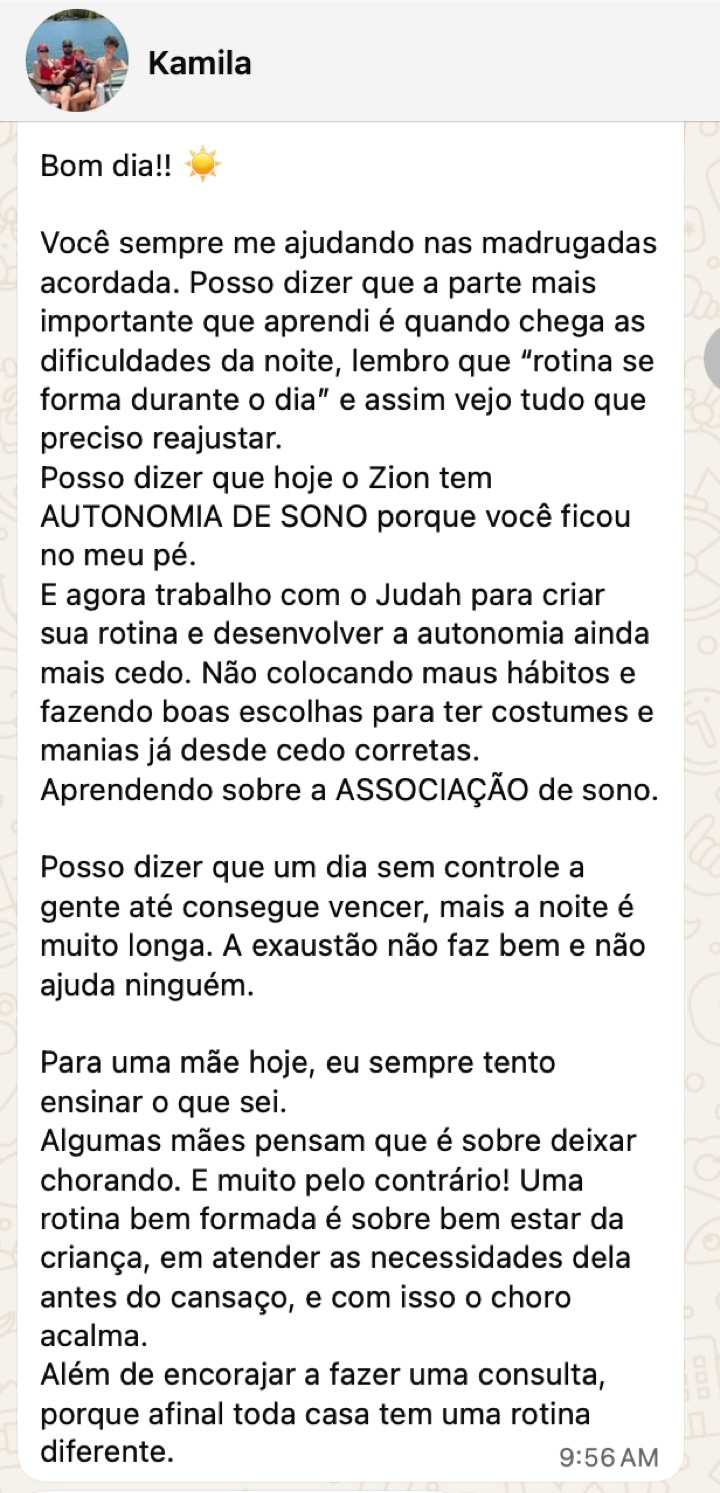
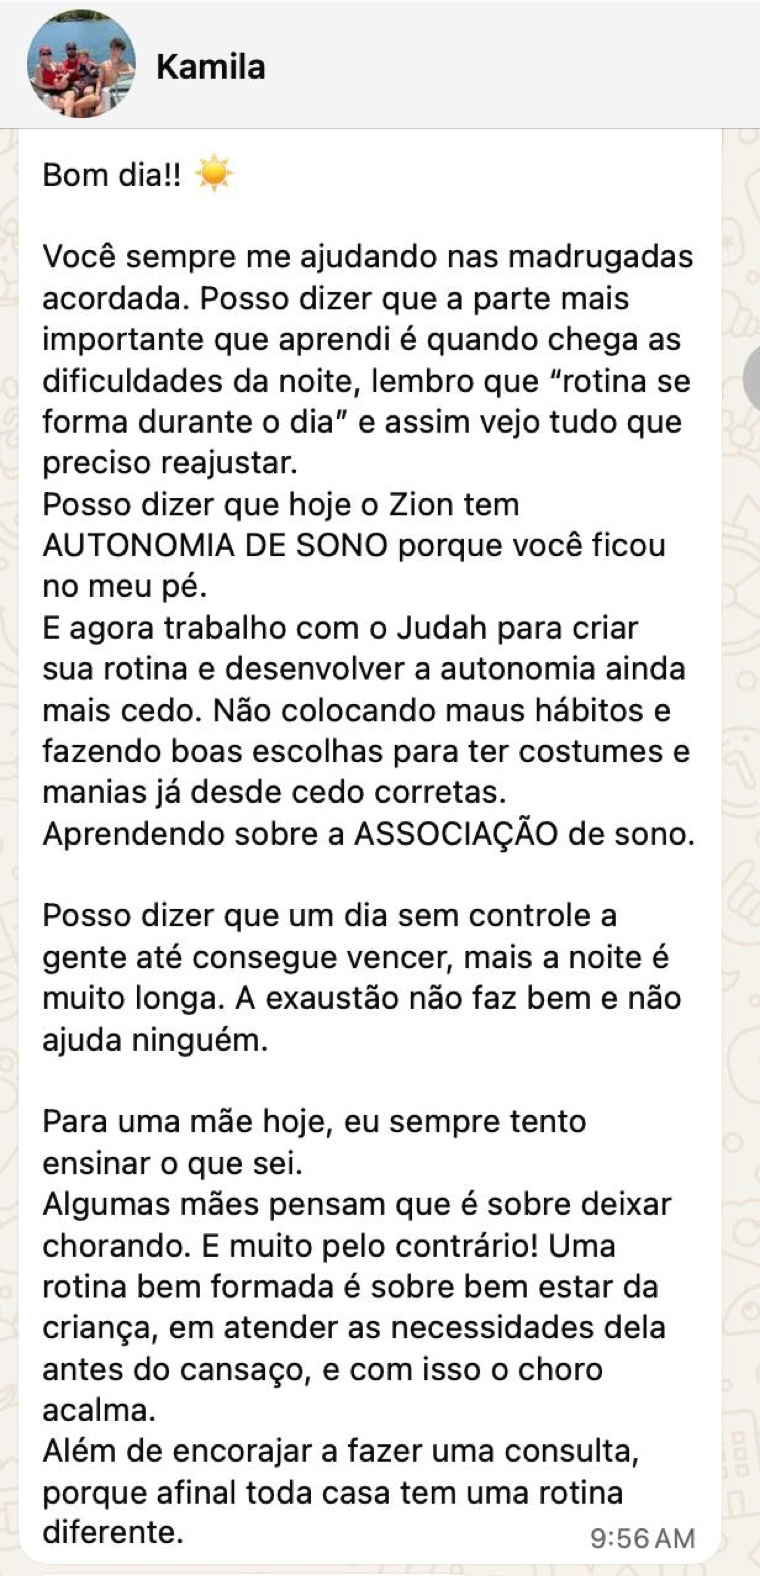
Depoimentos redesenhados: 8 prints originais do WhatsApp, mãe do Theo em destaque com a sequência mês a mês, legendas por print e etiqueta correta; corrige ordem cronológica da família (Ewerton 2017 primeiro)

diff --git a/src/components/HomeTestimonials.tsx b/src/components/HomeTestimonials.tsx
@@ -10,6 +10,68 @@ interface Props {
   showCta?: boolean;
 }
 
+type Testimonial = NonNullable<
+  NonNullable<LocaleDict["services"]["cards"][number]["detail"]["testimonials"]>
+>[number];
+
+// Print real do WhatsApp, apresentado como uma prova que se pode ampliar.
+function Proof({
+  src,
+  alt,
+  caption,
+  height = "h-[300px] md:h-[360px]",
+}: {
+  src: string;
+  alt: string;
+  caption?: string;
+  height?: string;
+}) {
+  return (
+    <figure className="shrink-0 flex flex-col gap-2.5">
+      <a
+        href={src}
+        target="_blank"
+        rel="noopener noreferrer"
+        className="group relative block overflow-hidden rounded-sm border border-cream-line bg-background shadow-[0_2px_14px_-8px_rgba(45,36,30,0.35)] transition-all duration-200 ease-out hover:shadow-[0_10px_28px_-12px_rgba(45,36,30,0.45)] hover:border-sage"
+      >
+        {/* eslint-disable-next-line @next/next/no-img-element */}
+        <img
+          src={src}
+          alt={alt}
+          loading="lazy"
+          className={`${height} w-auto max-w-none object-cover object-top`}
+        />
+        <span className="pointer-events-none absolute inset-0 flex items-center justify-center bg-text-primary/0 opacity-0 transition-all duration-200 group-hover:bg-text-primary/25 group-hover:opacity-100">
+          <span className="font-barlow-condensed text-[11px] tracking-[0.25em] uppercase text-background bg-text-primary/70 px-4 py-2 rounded-full">
+            Ampliar
+          </span>
+        </span>
+      </a>
+      {caption && (
+        <figcaption className="font-barlow text-text-muted italic" style={{ fontSize: "12.5px" }}>
+          {caption}
+        </figcaption>
+      )}
+    </figure>
+  );
+}
+
+function Attribution({ author, source }: { author: string; source?: string }) {
+  return (
+    <div className="flex items-center gap-3">
+      <span className="h-px w-6 bg-terracotta/50" aria-hidden="true" />
+      <span className="font-barlow-condensed text-xs tracking-[0.22em] uppercase text-text-primary">
+        {author}
+      </span>
+      {source && (
+        <span className="font-barlow-condensed text-[10px] tracking-[0.2em] uppercase text-text-muted">
+          · {source}
+        </span>
+      )}
+    </div>
+  );
+}
+
 // Depoimentos reais (com print) reaproveitados da Consultoria de Sono.
 // Usado na home e dentro da página de consultorias.
 export default function HomeTestimonials({ dict, locale, showCta = true }: Props) {
@@ -25,70 +87,83 @@ export default function HomeTestimonials({ dict, locale, showCta = true }: Props
       ? "See consultations"
       : "Ver consultorías";
 
+  const featured = d.testimonials.find((t: Testimonial) => t.featured);
+  const others = d.testimonials.filter((t: Testimonial) => !t.featured);
+
   return (
     <section id="depoimentos" className="w-full px-8 md:px-16 lg:px-20 py-20 md:py-28 bg-background-soft">
-      <FadeIn className="max-w-5xl mx-auto flex flex-col gap-10">
-        <div className="text-center flex flex-col items-center gap-3">
-          <div className="w-8 h-px bg-terracotta" aria-hidden="true" />
-          <h2 className="font-playfair italic text-olive" style={{ fontSize: "clamp(26px, 3vw, 40px)" }}>
+      <div className="max-w-6xl mx-auto flex flex-col gap-14 md:gap-16">
+        {/* Cabeçalho */}
+        <FadeIn className="max-w-2xl mx-auto text-center flex flex-col items-center gap-4">
+          <span className="h-px w-10 bg-terracotta" aria-hidden="true" />
+          <h2
+            className="font-playfair italic text-olive leading-tight"
+            style={{ fontSize: "clamp(26px, 3.2vw, 44px)" }}
+          >
             {d.testimonialsTitle}
           </h2>
           {d.testimonialsNote && (
-            <p className="font-barlow text-text-secondary max-w-xl" style={{ fontSize: "clamp(15px, 1.3vw, 17px)" }}>
+            <p className="font-barlow text-text-secondary leading-relaxed" style={{ fontSize: "clamp(15px, 1.3vw, 17px)" }}>
               {d.testimonialsNote}
             </p>
           )}
-        </div>
+        </FadeIn>
 
-        <div className="grid grid-cols-1 md:grid-cols-2 gap-6 md:gap-8 items-start">
-          {d.testimonials.map((t, i) => (
-            <figure key={i} className="flex flex-col bg-background border border-cream-line overflow-hidden">
-              <div className="px-6 pt-6 pb-5 flex flex-col gap-4 border-l-2 border-terracotta">
+        {/* Destaque: a história completa de uma família, mês a mês */}
+        {featured && (
+          <FadeIn className="flex flex-col gap-8">
+            <div className="max-w-3xl">
+              <blockquote
+                className="font-playfair italic text-text-primary leading-[1.35]"
+                style={{ fontSize: "clamp(22px, 2.6vw, 34px)" }}
+              >
+                “{featured.quote}”
+              </blockquote>
+              <div className="mt-5">
+                <Attribution author={featured.author} source={featured.source} />
+              </div>
+            </div>
+
+            {featured.images && featured.images.length > 0 && (
+              <div className="-mx-8 md:-mx-16 lg:-mx-20 px-8 md:px-16 lg:px-20 overflow-x-auto">
+                <div className="flex items-start gap-5 md:gap-6 pb-2">
+                  {featured.images.map((src: string, i: number) => (
+                    <Proof
+                      key={src}
+                      src={src}
+                      alt={featured.imageAlt ?? `Mensagem real de ${featured.author}`}
+                      caption={featured.imageCaptions?.[i]}
+                    />
+                  ))}
+                </div>
+              </div>
+            )}
+          </FadeIn>
+        )}
+
+        {/* Outras famílias */}
+        {others.length > 0 && (
+          <FadeIn className="grid grid-cols-1 md:grid-cols-3 gap-8 md:gap-10 pt-2 border-t border-cream-line">
+            {others.map((t: Testimonial, i: number) => (
+              <div key={i} className="flex flex-col gap-5 pt-10">
                 <blockquote
                   className="font-playfair italic text-text-primary leading-relaxed"
-                  style={{ fontSize: "clamp(17px, 1.5vw, 21px)" }}
+                  style={{ fontSize: "clamp(17px, 1.45vw, 20px)" }}
                 >
                   “{t.quote}”
                 </blockquote>
-                <figcaption className="flex flex-col gap-1">
-                  <span className="font-barlow-condensed text-xs tracking-[0.2em] uppercase text-text-muted">
-                    {t.author}
-                  </span>
-                  {t.source && (
-                    <span className="font-barlow-condensed text-[11px] tracking-[0.2em] uppercase text-olive">
-                      Print real · {t.source}
-                    </span>
-                  )}
-                </figcaption>
+                <Attribution author={t.author} source={t.source} />
+                {t.images?.[0] && (
+                  <Proof
+                    src={t.images[0]}
+                    alt={t.imageAlt ?? `Mensagem real de ${t.author}`}
+                    height="h-[280px] md:h-[320px]"
+                  />
+                )}
               </div>
-              {t.images && t.images.length > 0 && (
-                <div className="border-t border-cream-line bg-background-soft/60 p-4 flex gap-3 overflow-x-auto">
-                  {t.images.map((src, k) => (
-                    <a
-                      key={k}
-                      href={src}
-                      target="_blank"
-                      rel="noopener noreferrer"
-                      className="relative shrink-0 block group"
-                      title="Ver print completo"
-                    >
-                      {/* eslint-disable-next-line @next/next/no-img-element */}
-                      <img
-                        src={src}
-                        alt={t.imageAlt ?? `Mensagem real de ${t.author}`}
-                        loading="lazy"
-                        className="h-[340px] w-auto max-w-none rounded border border-cream-line object-cover object-top"
-                      />
-                      <span className="absolute bottom-2 left-1/2 -translate-x-1/2 font-barlow-condensed text-[10px] tracking-[0.15em] uppercase text-olive bg-background/90 px-2.5 py-1 rounded-full border border-cream-line group-hover:text-terracotta transition-colors duration-200 whitespace-nowrap">
-                        Ampliar
-                      </span>
-                    </a>
-                  ))}
-                </div>
-              )}
-            </figure>
-          ))}
-        </div>
+            ))}
+          </FadeIn>
+        )}
 
         {d.disclaimer && (
           <p className="font-barlow text-text-muted text-center italic max-w-2xl mx-auto" style={{ fontSize: "13px" }}>
@@ -97,7 +172,7 @@ export default function HomeTestimonials({ dict, locale, showCta = true }: Props
         )}
 
         {showCta && (
-          <div className="flex justify-center pt-2">
+          <div className="flex justify-center">
             <Link
               href={`${p}/consultorias`}
               className="font-barlow-condensed text-sm tracking-widest uppercase px-10 py-4 bg-terracotta text-background font-semibold hover:bg-text-primary transition-colors duration-200"
@@ -106,7 +181,7 @@ export default function HomeTestimonials({ dict, locale, showCta = true }: Props
             </Link>
           </div>
         )}
-      </FadeIn>
+      </div>
     </section>
   );
 }

diff --git a/src/types/locale.ts b/src/types/locale.ts
@@ -37,10 +37,14 @@ export interface ConsultoriaDetail {
   testimonials?: {
     quote: string;
     author: string;
-    // Prints reais (WhatsApp/Instagram) que comprovam o depoimento.
+    // Prints reais do WhatsApp que comprovam o depoimento.
     images?: string[];
+    // Legenda de cada print (ex.: a data), na mesma ordem das imagens.
+    imageCaptions?: string[];
     imageAlt?: string;
     source?: string;
+    // Depoimento em destaque: ocupa a largura toda, com a sequência de prints.
+    featured?: boolean;
   }[];
   ctaLabel: string;
   ctaWhatsappText: string;
